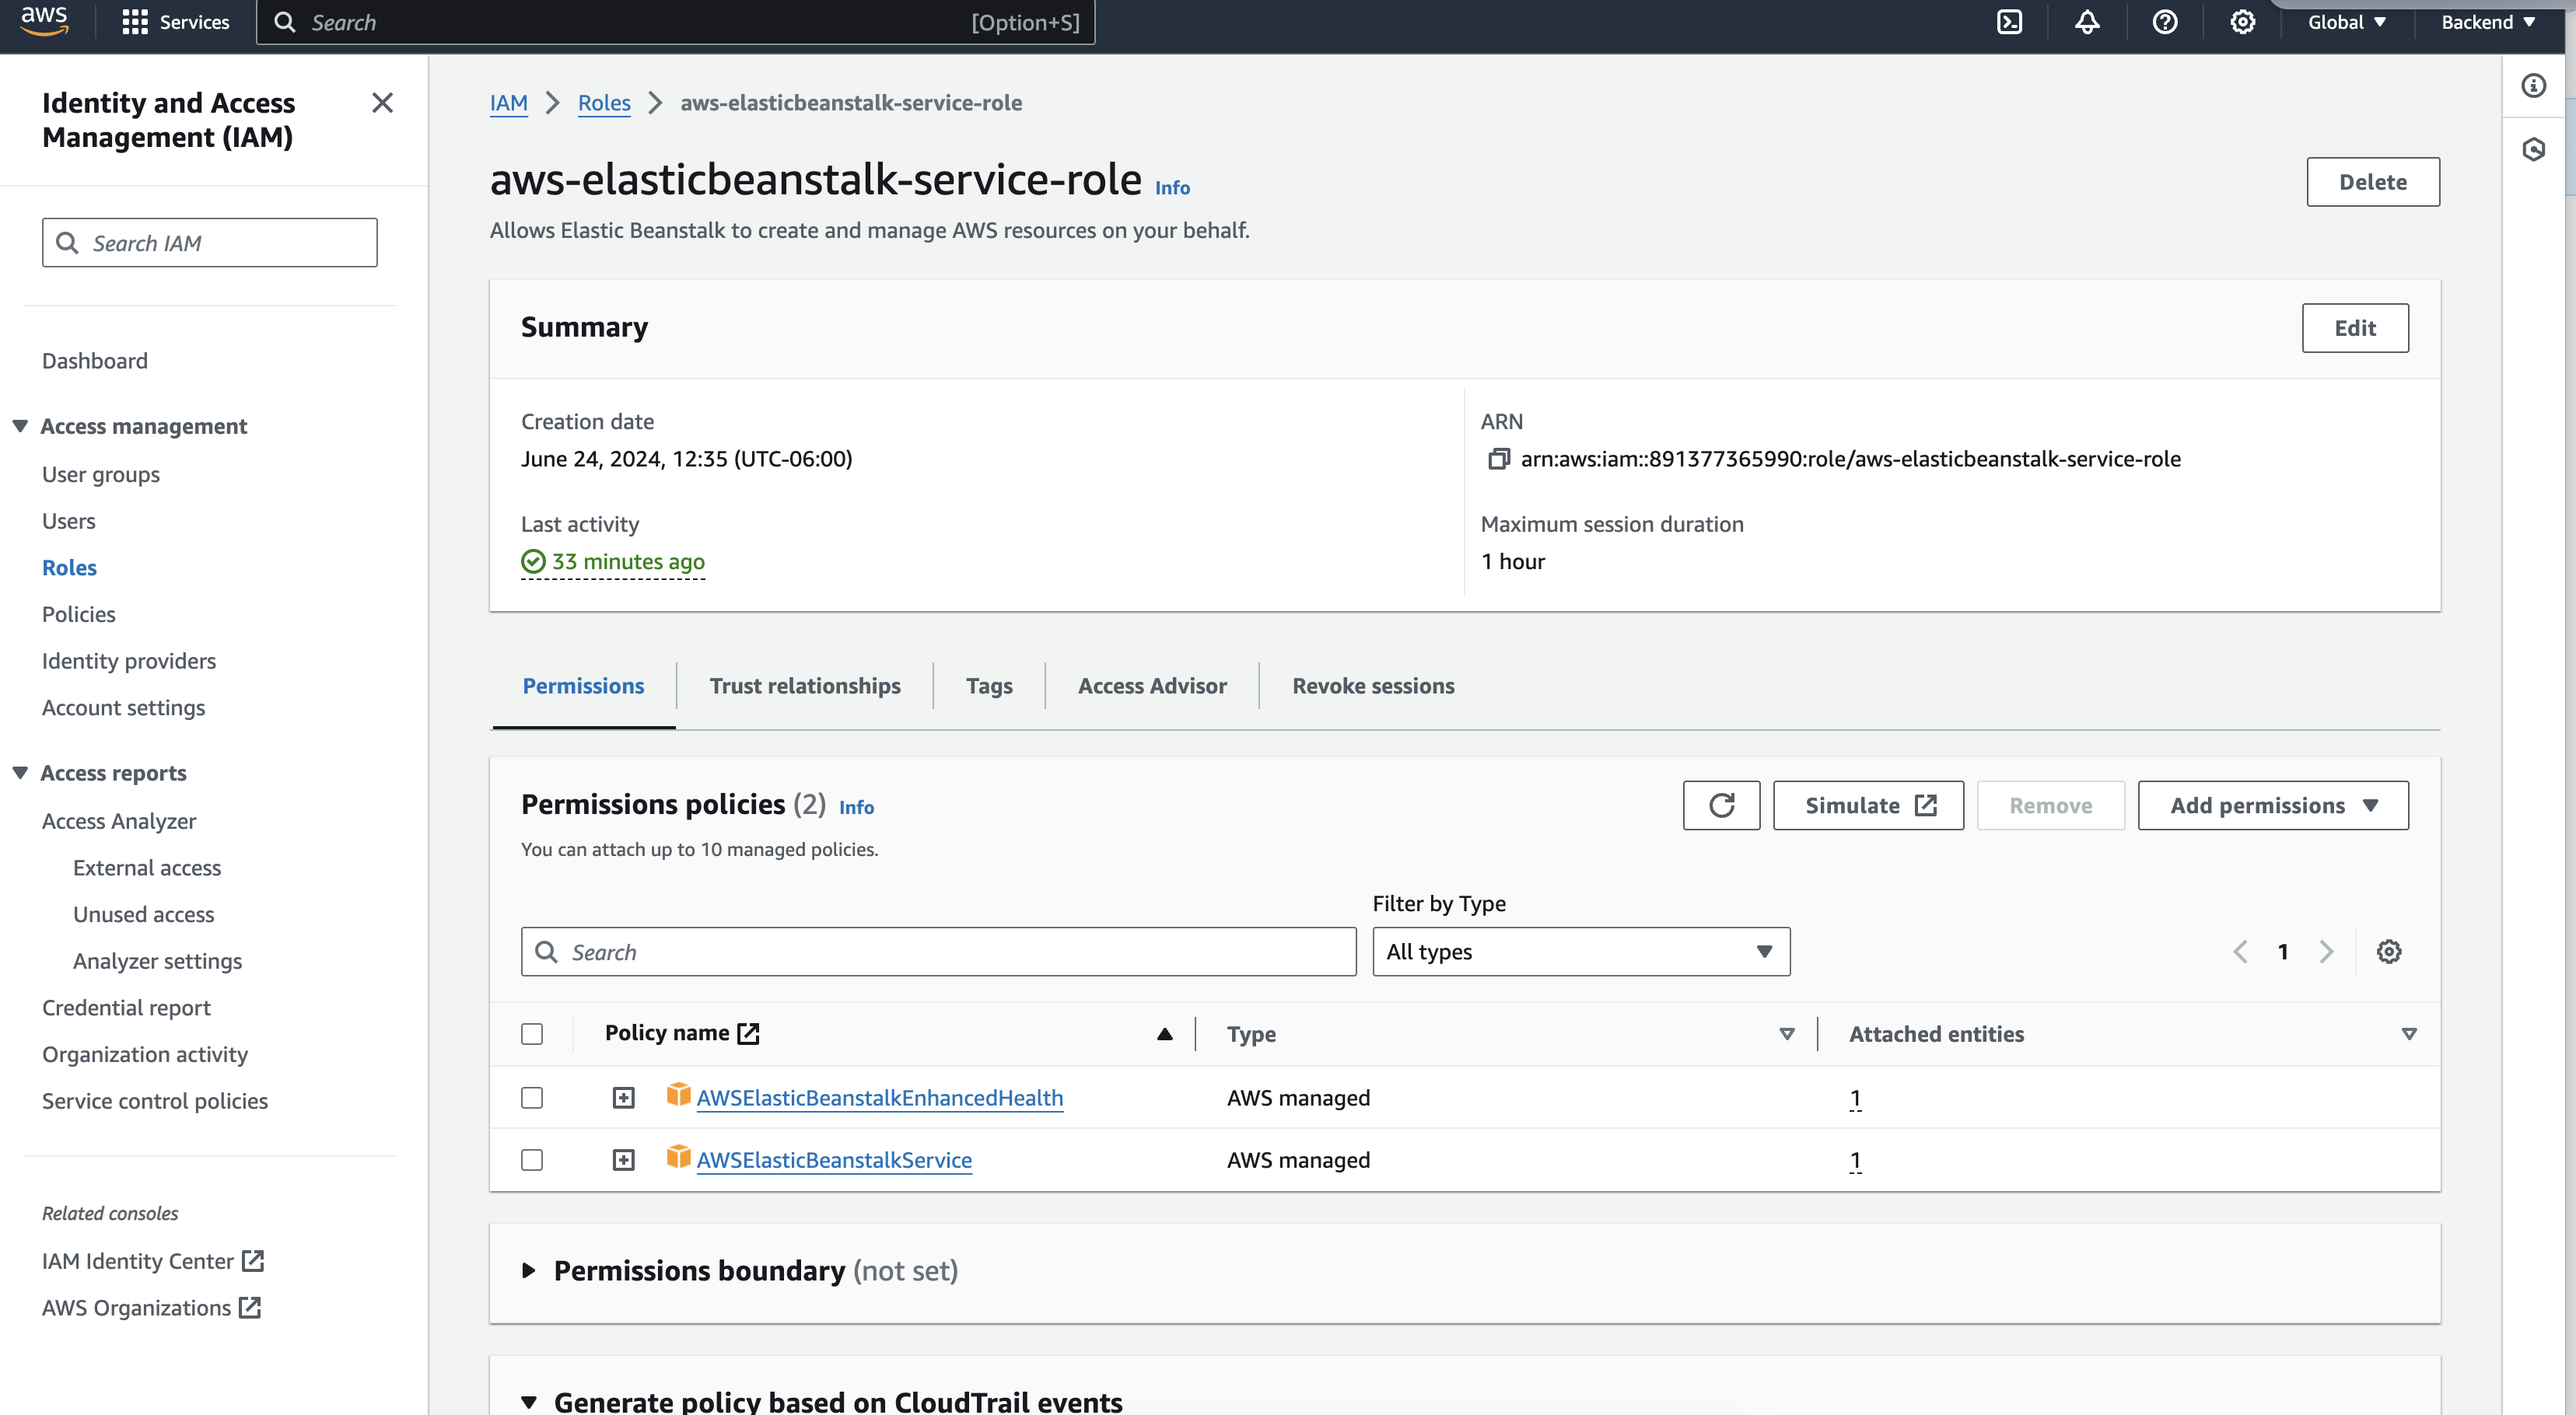
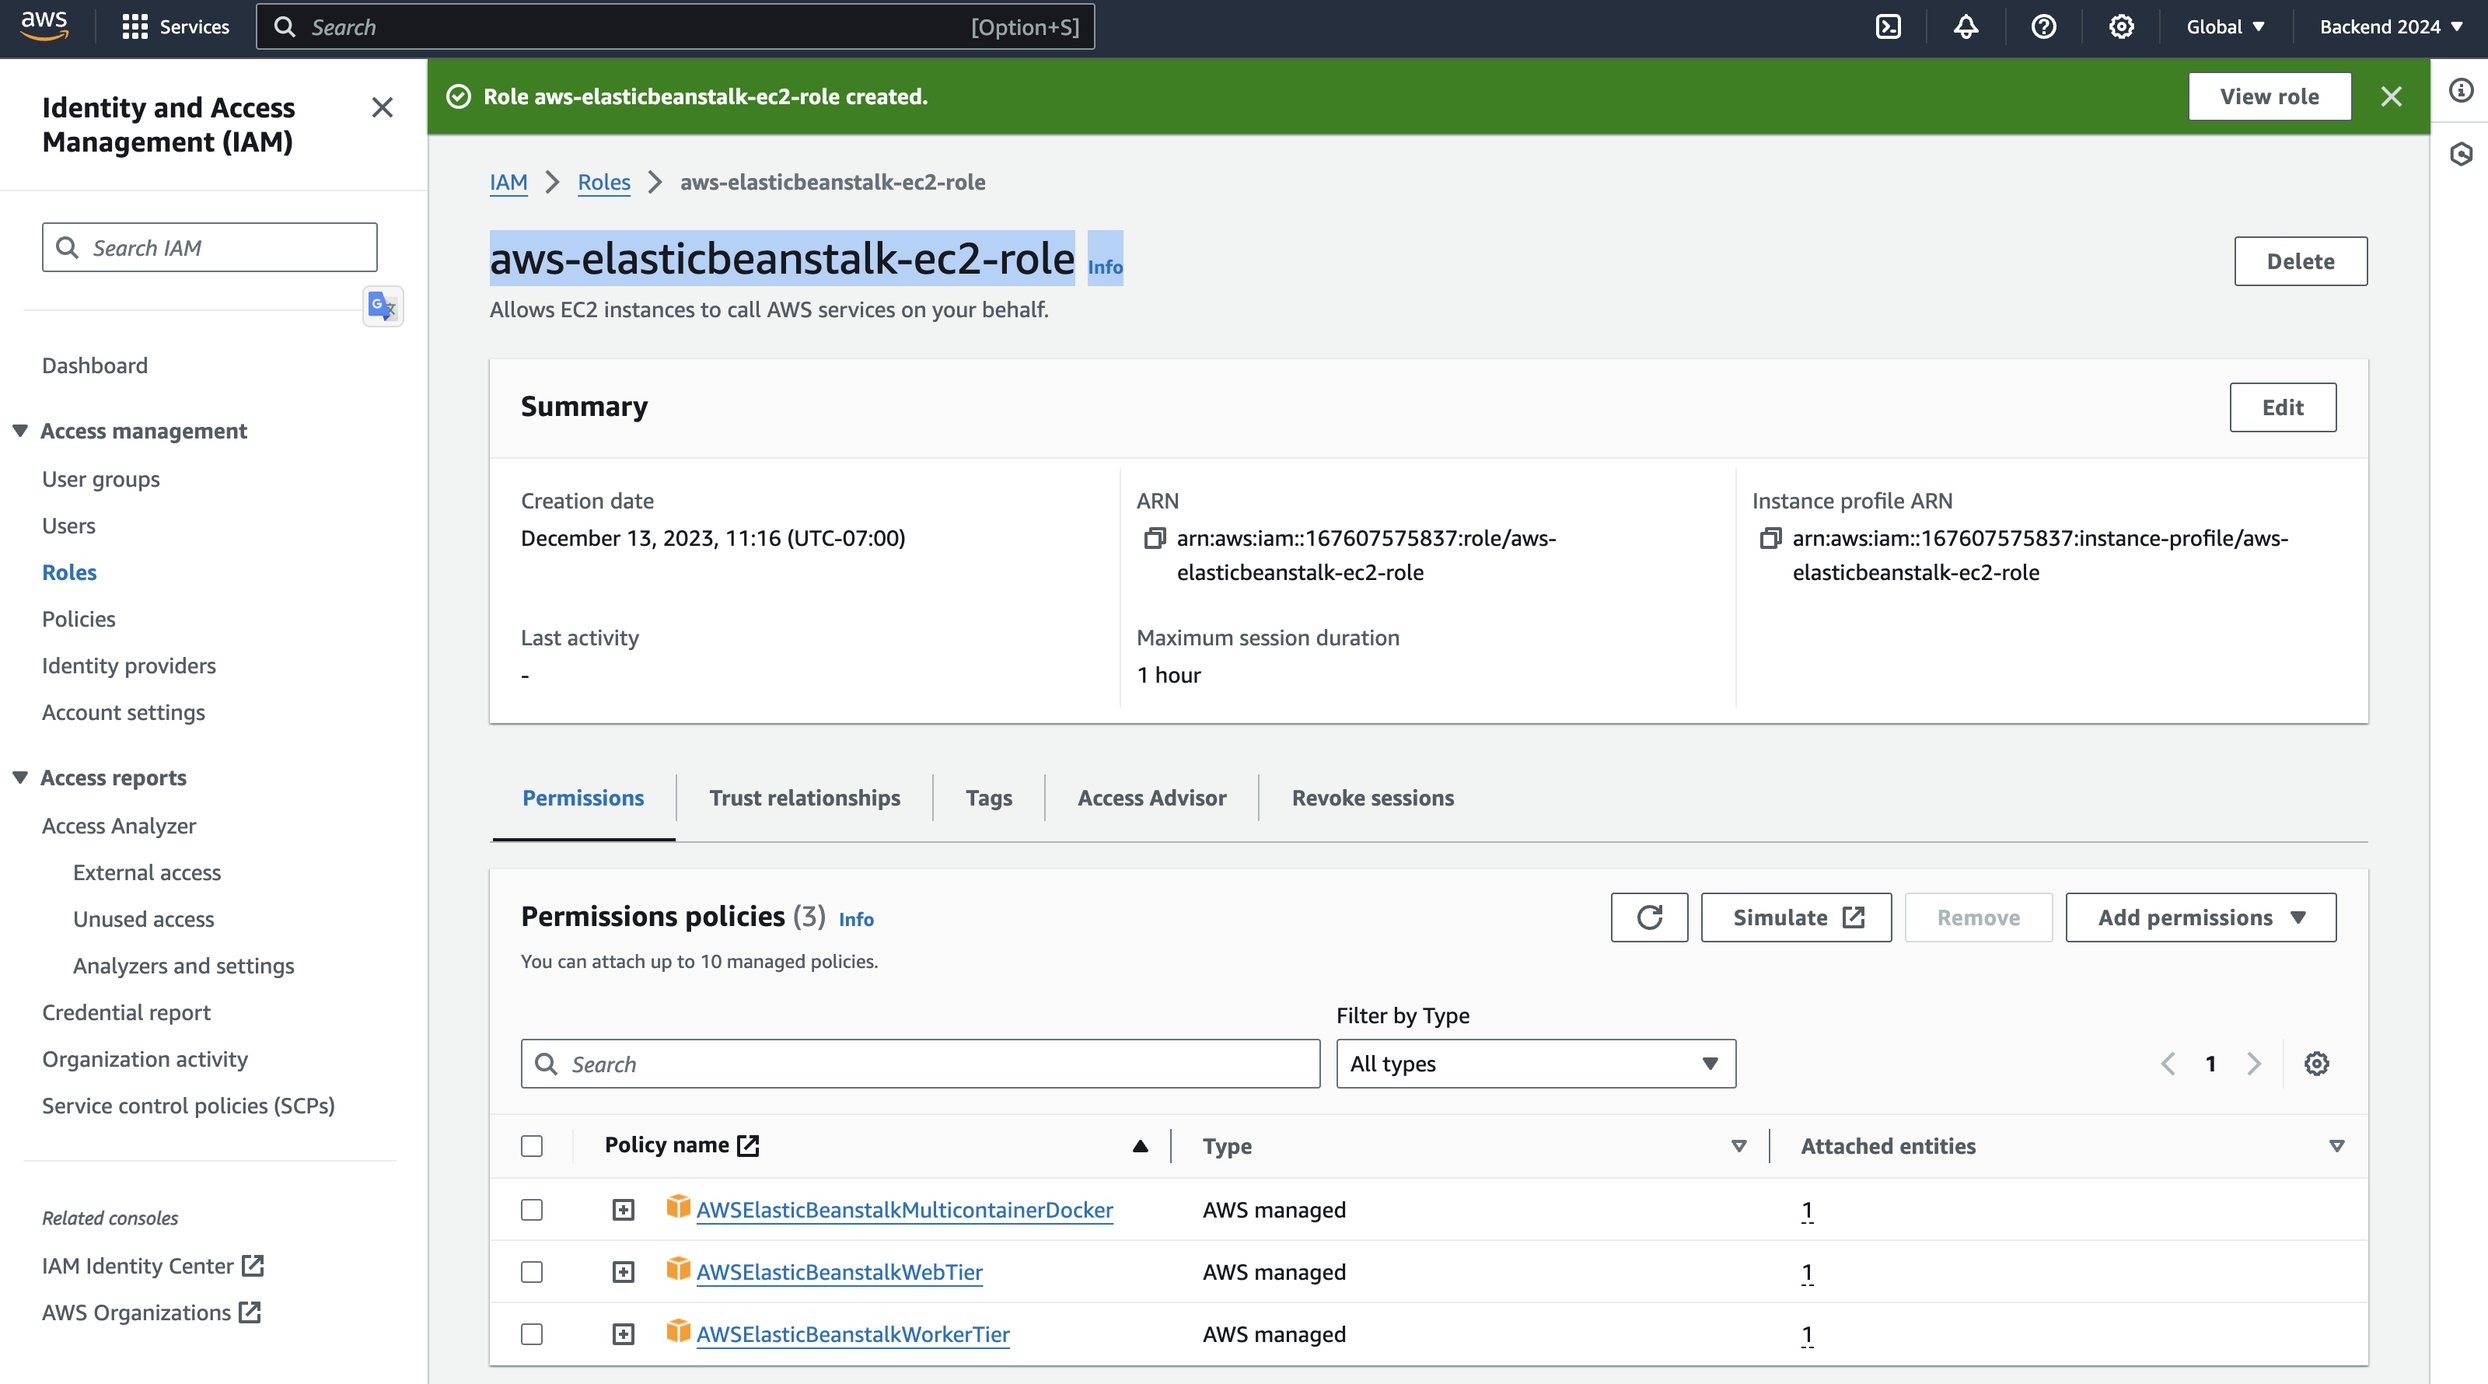
cloud - update docs for IAM in beanstalk tutorial

diff --git a/cloud/aws-tutoriais/full-web-application-release/README.md b/cloud/aws-tutoriais/full-web-application-release/README.md
@@ -20,6 +20,8 @@ I normally create with like: `cloud_<year>@gmail.com`
 
 ## 2. Create AWS DEFAULT application in Elastic Beanstalk
 
+> < ! > for any error, check the **[documentation HERE](https://docs.aws.amazon.com/elasticbeanstalk/latest/dg/environments-cfg-autoscaling-launch-templates.html#environments-cfg-autoscaling-launch-templates-options)**
+
 <details>
 <summary>Open it here: </summary>
 
@@ -58,84 +60,48 @@ I normally create with like: `cloud_<year>@gmail.com`
 
 <br>
 
+<br>
+
+- 2.2.1 create and use new service role
+- 2.2.2 check the roles names and roles to be created in IAM
+
+![Alt text](data/beanstalk/default-app/image-3.png)
+
 ---
 
 <details>
-<summary>| 2.2.1. | - If there is no `EC2 instance profile`, **WE SHOULD [CREATE IT HERE]</summary>
-
-
-##### IAM Role
-
-    2.2.1. Go to Identity and Access Management (IAM)
-
-- [Identity and Access Management (IAM)](https://us-east-1.console.aws.amazon.com/iam/home?region=ca-central-1#/roles)
-
-![Alt text1](data/IAM-Role/image.png)
-
-<br>
-<br>
-<br>
-
-    2.2.2. ROLE NAME: `aws-elasticbeanstalk-ec2-role`
+<summary>````| 2.2.3. | - Create the IAM Roles here</summary>
 
 <br>
 
-        2.2.2.1. STEP: Select trusted entity
+- Create the role `aws-elasticbeanstalk-ec2-role`
+  - AWSElasticBeanstalkMulticontainerDocker
+  - AWSElasticBeanstalkWebTier
+  - AWSElasticBeanstalkWorkerTier
 
 ![Alt text](data/IAM-Role/image-1.png)
-
-<br>
-<br>
-
-        2.2.2.2. STEP: Add permissions
-
-According to this [AWS Doc here](https://docs.aws.amazon.com/elasticbeanstalk/latest/dg/GettingStarted.CreateApp.html), we should add this roles:
-
-1. `AWSElasticBeanstalkWebTier`
-2. `AWSElasticBeanstalkWorkerTier`
-3. `AWSElasticBeanstalkMulticontainerDocker`
-
-
 ![Alt text](data/IAM-Role/image-2.png)
-
-<br>
-
-        2.2.2.3. Name, review, and create
-
-THE NAME OF THE ROLE NEEDS TO BE: `aws-elasticbeanstalk-ec2-role`
-
-Review it and add the role name, that's all!!!
-
 ![Alt text](data/IAM-Role/image-3.png)
+![Alt text](data/IAM-Role/image-4.png)
 
 <br>
 <br>
-<br>
 
-    2.2.3. ROLE NAME: `aws-elasticbeanstalk-service-role`
+- Create the role `aws-elasticbeanstalk-service-role`
+  - AWSElasticBeanstalkEnhancedHealth
+  - AWSElasticBeanstalkManagedUpdatesCustomerRolePolicy
 
-<br>
+![Alt text](data/IAM-Role/image-5.png)
 
-> CHECK IF THE ROLE IS ALREADY CREATED, IF NOT, THEN YOU CAN CREATE IT
 
-Repeat the same PROCESS IN STEP 2: 
-
-1. `AWSElasticBeanstalkEnhancedHealth`
-2. `AWSElasticBeanstalkService`
-
-<br>
-
-![alt text](data/IAM-Role/image-4.png)
-
----
+        ````| 2.2.3. | - END
 
 </details>
 
 ---
-
 <br>
 
-![Alt text](data/beanstalk/default-app/image-3.png)
+- select the roles after being created ( _step 2.2.3. above_ ^ )
 ![Alt text](data/beanstalk/default-app/image-4.png)
 
 <br>
@@ -152,7 +118,9 @@ N/A => Next
 
         2.4. STEP: Configure instance traffic and scaling
 
-N/A => Next
+- select the disk ( THIS WAS MY MISTAKE IN 2024 with the new updates )
+
+![alt text](image.png)
 
 <br>
 <br>
